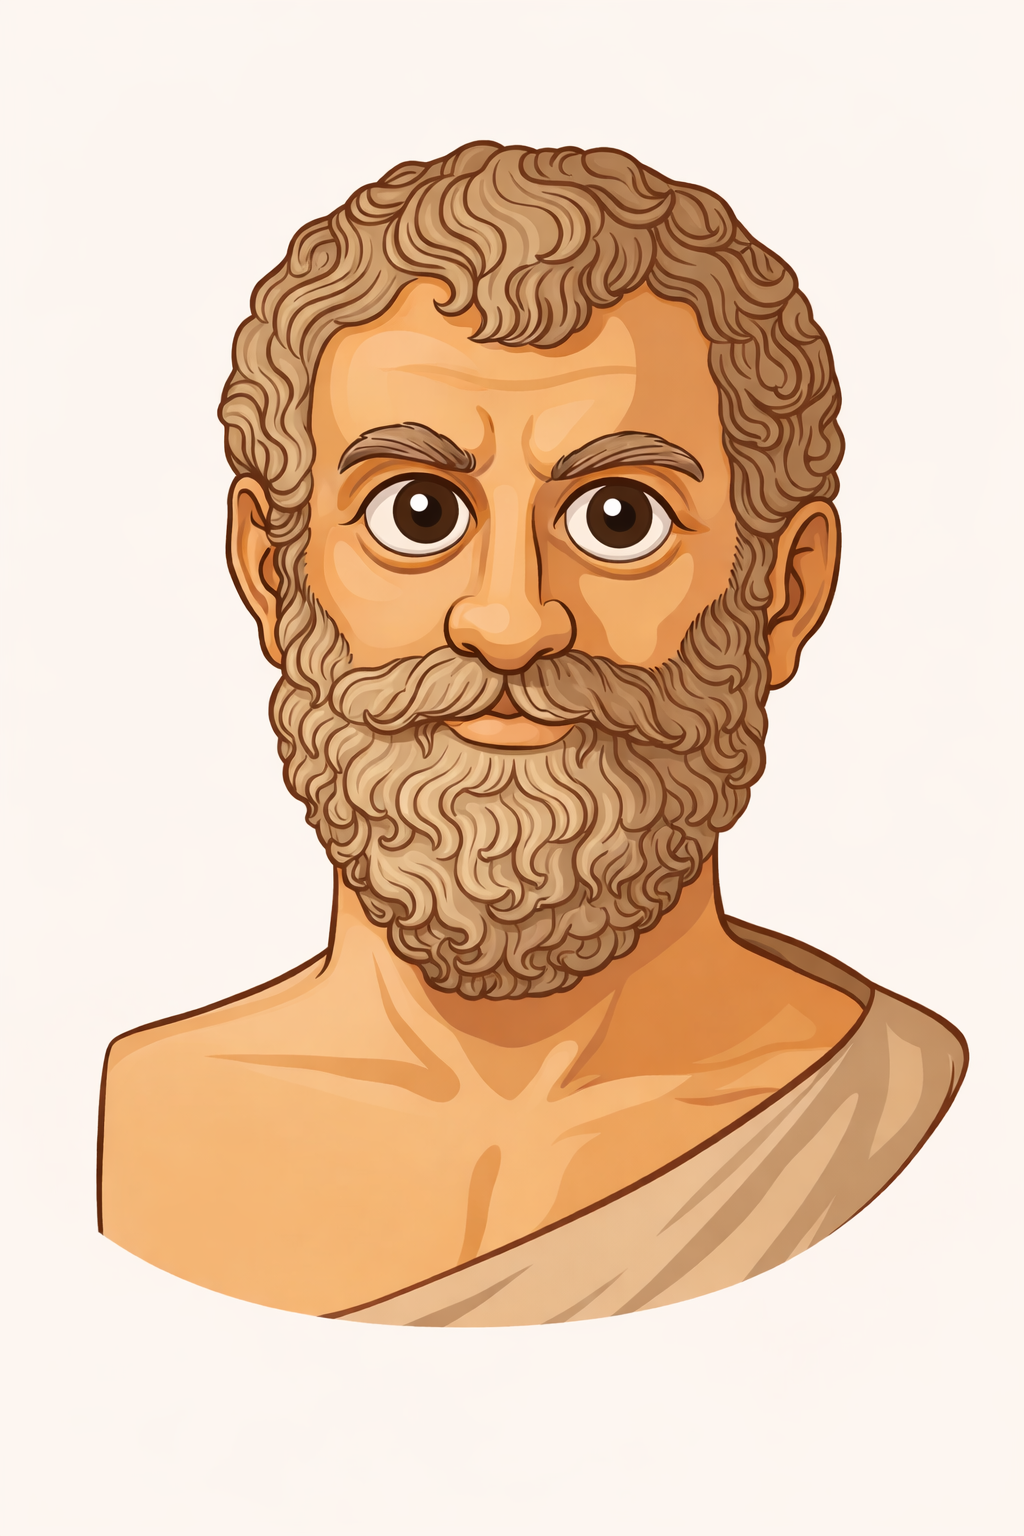
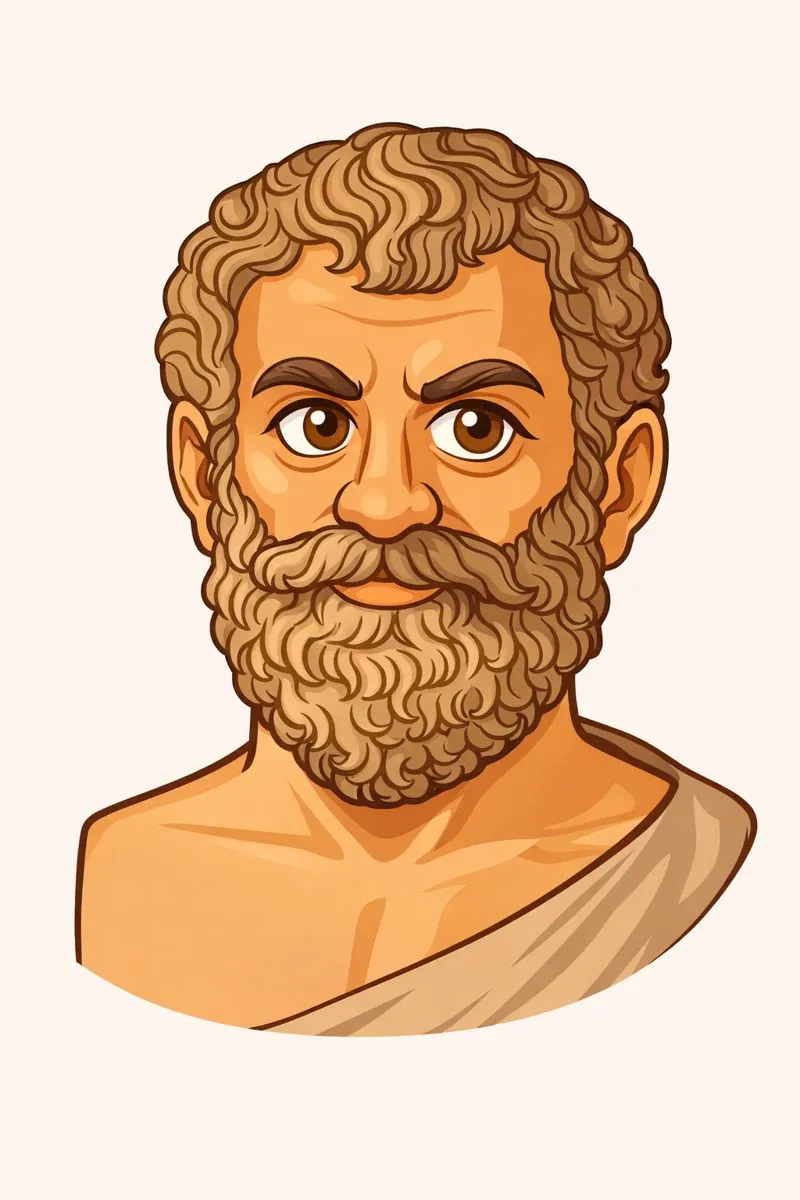
add: onboarding gate so user is always redirected to the onboarding if they have not seen it yet

diff --git a/frontend/src/App.jsx b/frontend/src/App.jsx
@@ -7,6 +7,7 @@ import Course from './Pages/Course/Course.jsx';
 import Session from './Components/Session/Session.jsx';
 import CourseWrapper from './Pages/Course/CourseWrapper.jsx';
 import OnboardingWrapper from './Pages/Onboarding/OnboardingWrapper.jsx';
+import OnboardingGate from './Pages/Onboarding/OnboardingGate.jsx';
 
 function App() {
     return (
@@ -15,9 +16,13 @@ function App() {
                 <SessionsProvider>
                     <Routes>
                         <Route path='/onboarding' element={<OnboardingWrapper />} />
-                        <Route path='/' element={<Article />} />
-                        <Route path='course' element={<CourseWrapper />} />
-                        <Route path='session/:sessionId' element={<Session />} />
+
+                        {/* Onboarding gate (exclude /onboarding to avoid redirect loop) */}
+                        <Route element={<OnboardingGate />}>
+                            <Route path='/' element={<Article />} />
+                            <Route path='course' element={<CourseWrapper />} />
+                            <Route path='session/:sessionId' element={<Session />} />
+                        </Route>
                     </Routes>
                 </SessionsProvider>
             </BrowserRouter>

diff --git a/frontend/src/Pages/Onboarding/OnboardingGate.jsx b/frontend/src/Pages/Onboarding/OnboardingGate.jsx
@@ -1,0 +1,14 @@
+import { Navigate, Outlet } from 'react-router-dom';
+
+export default function OnboardingGate() {
+  try {
+    const revealed = localStorage.getItem('courseRevealed') === 'true';
+    if (!revealed) {
+      return <Navigate to="/onboarding" replace />;
+    }
+  } catch (e) {
+    return <Navigate to="/onboarding" replace />;
+  }
+
+  return <Outlet />;
+}
